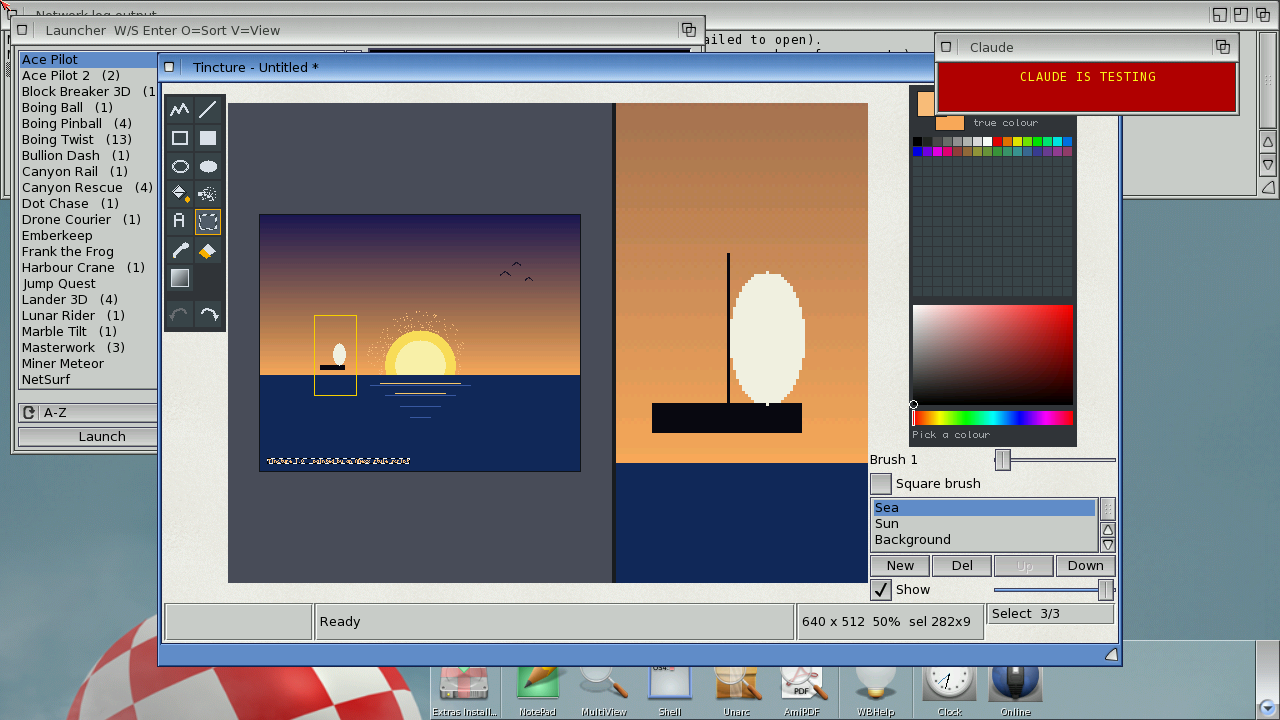
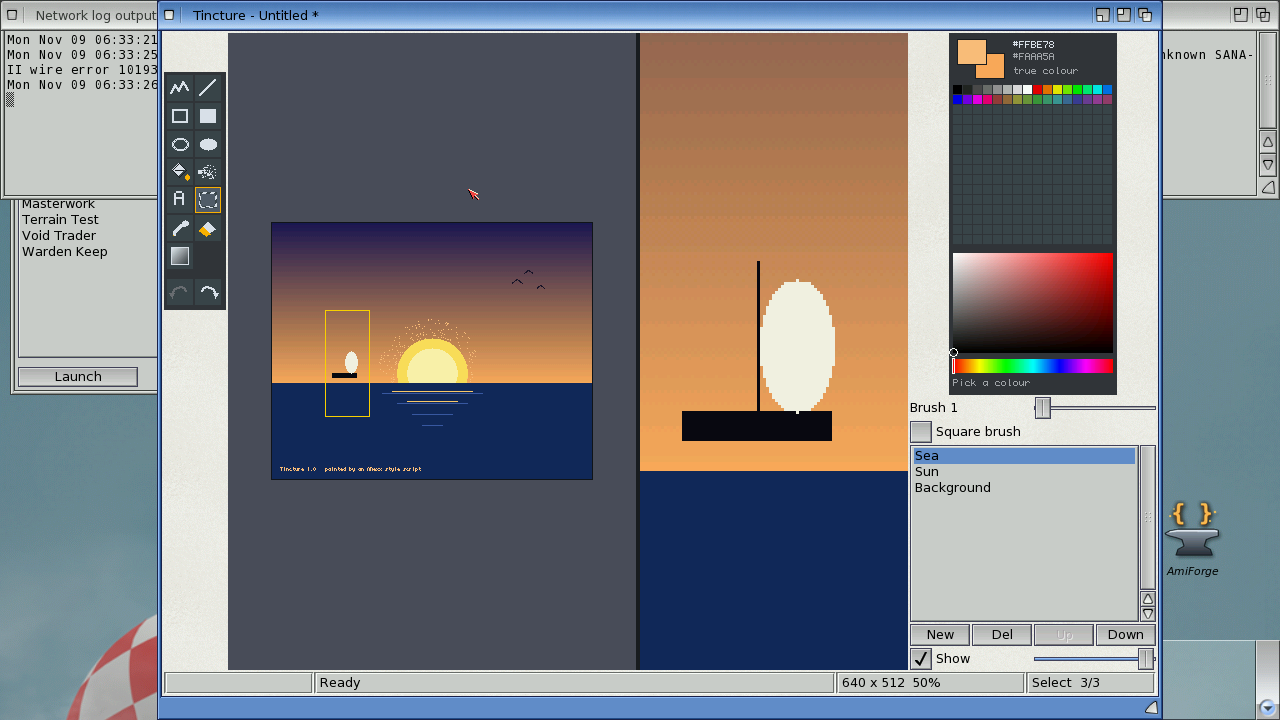
Tincture: the view follows the window (canvas fill=1, view_Resize), right button paints with the background colour (rmb=1), Clipboard.GetImage; guest tool screenshots from each guest's own QEMU; new screenshot from m1c

diff --git a/examples/tincture/tools/guest.py b/examples/tincture/tools/guest.py
@@ -32,7 +32,8 @@ DIR = "DH1:tincture"
 def hmp_shot(path_local):
     """QEMU screendump of the whole guest screen (HMP on the QEMU machine's 127.0.0.1:2348)."""
     remote = "/tmp/tincture_shot.ppm"
-    cmd = "printf 'screendump %s\\n' | nc -w 3 127.0.0.1 2348 >/dev/null; sleep 1" % remote
+    port = int(os.environ.get("OS4_HMP_PORT", g._G.get("hmp", 2348)))      # each guest's own QEMU
+    cmd = "printf 'screendump %s\\n' | nc -w 3 127.0.0.1 %d >/dev/null; sleep 1" % (remote, port)
     if g.SSH:
         subprocess.run(["ssh", g.SSH, cmd], check=True, timeout=30)
         subprocess.run(["scp", "-q", "%s:%s" % (g.SSH, remote), path_local + ".ppm"], check=True, timeout=60)

diff --git a/examples/tincture/README.md b/examples/tincture/README.md
@@ -14,7 +14,8 @@ handlers), [a stroke painted with real mouse input](docs/input.png).
 
 - **Tools** (key): Freehand `d`, Line `v`, Rectangle `r` / filled `R`, Ellipse `o` / filled `O`,
   Flood fill `f` (with tolerance), Airbrush `a`, Text `t`, Select `s`, Pick colour `i`, Eraser `e`,
-  Gradient `G`. Shift constrains shapes (squares, circles, 45° lines). Brush size 1–64, round
+  Gradient `G`. The left button paints with the foreground colour, the right button (or
+  Alt+click) with the background colour. Shift constrains shapes (squares, circles, 45° lines). Brush size 1–64, round
   or square (`[` `]`), with an outline under the pointer.
 - **Selections**: cut, copy, paste as a floating selection you drag into place, move (Ctrl:
   copy), clear, crop, and **custom brushes** from a selection (flip, rotate, double/half size,
@@ -129,10 +130,6 @@ mouse move costs 0.04 ms in both the VM and native builds.
 
 ## Known limits
 
-- The picture view is a fixed 640 x 480 canvas (form canvases don't resize with the window
-  yet); zoom and scrolling cover larger pictures.
-- The right mouse button opens the menus (as in every OS4 window), so painting with the
-  background colour is Alt+click; a canvas option to take the right button is requested.
 - Text uses the built-in 6 x 9 font, scaled; no OS fonts yet.
 - Selections are rectangles (no lasso or magic wand); flood fill works on the current layer.
 - Iconify isn't available in forms yet; "Icon on Workbench" gives the AppIcon for drops.
